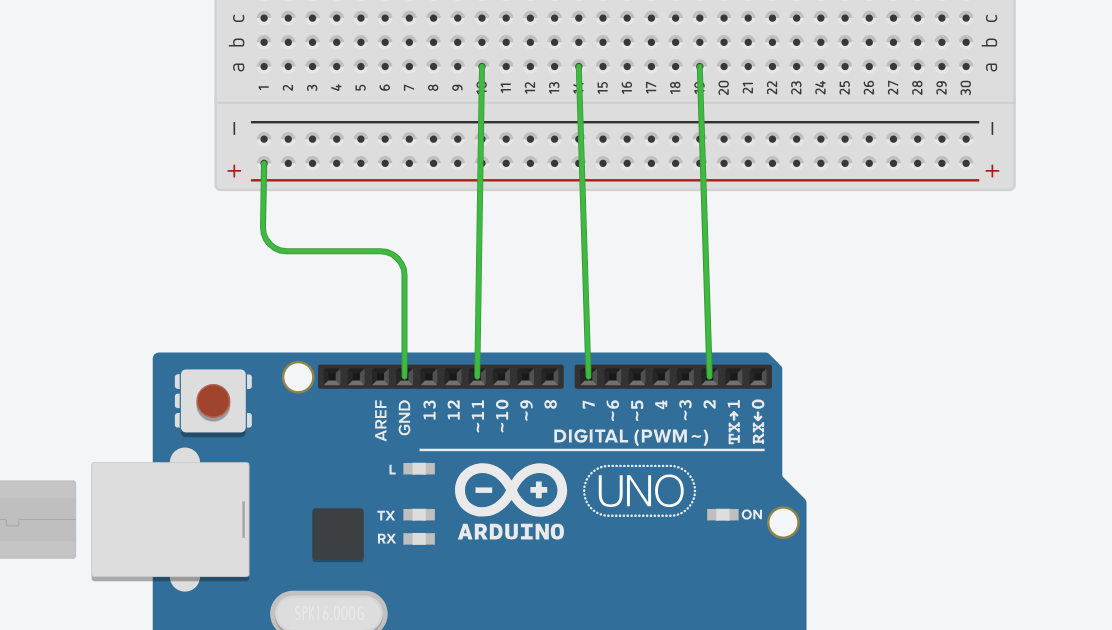
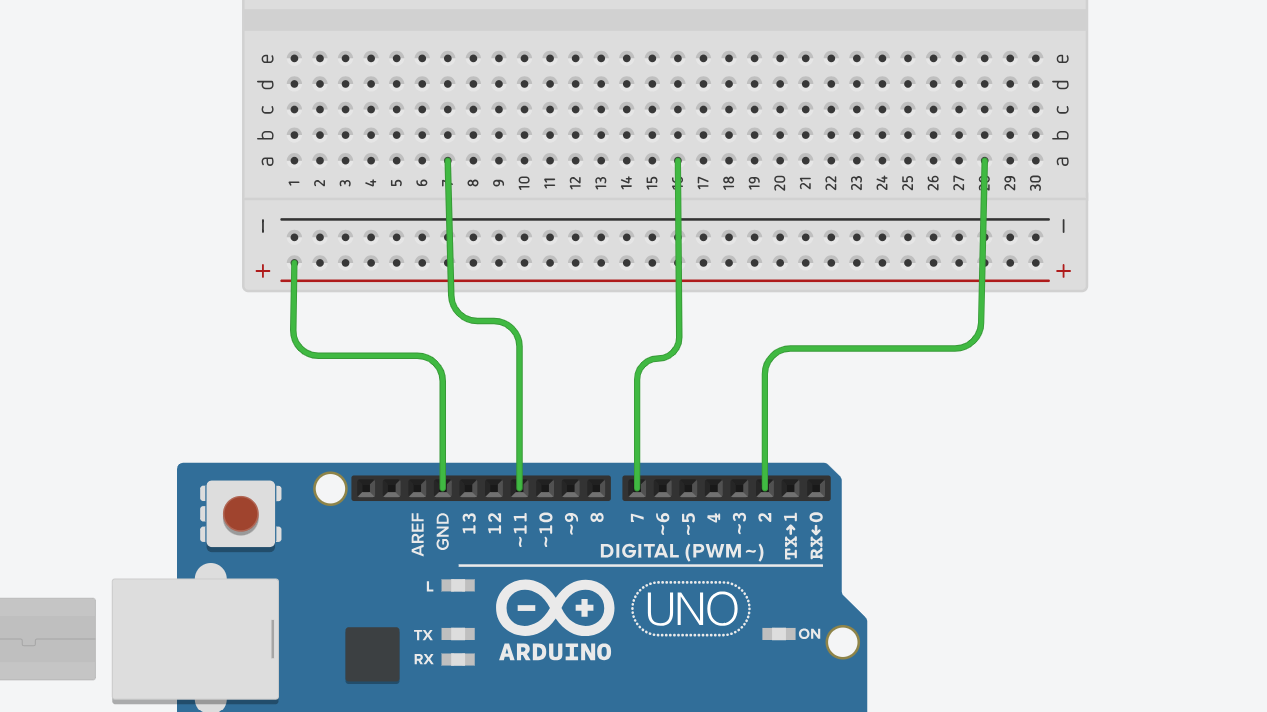
Finalização da parte de software do projeto e adição do código.

Changed region(s): [[0.0, 0.0, 0.9173, 1.0]]

diff --git a/README.md b/README.md
@@ -1,15 +1,15 @@
 # Basic Project Eletronics - Traffic Light
 Projeto básico de eletrônica para iniciar os estudos usando Arduino Uno.
-Será demonstrado como construir um semáforo utilizando um microcontrolador (Nesse caso, Arduino Uno).
+Será demonstrado como construir um semáforo de trânsito utilizando um microcontrolador (Nesse caso, Arduino Uno).
 
 # Ideia central
 A principal ideia é utilizar o Arduino Uno para programar 3 leds ao mesmo tempo. 
 Os leds funcionarão como um semáforo. O primeiro a ligar é o vermelho, depois de um tempo o amarelo e então o verde. Abaixo, estará listado os passos de como replicar este projeto para testes.
 As imagens abaixo serão do [Thinkerpad](https://www.tinkercad.com/dashboard), um simulador usado para replicar projetos com componentes eletrônicos. Foi utilizado aqui principalmente para evitar queimar algum LED durante a construção dele.
-Você também pode acessá-lo para testar este projeto, ou usá-lo para construir o seu próprio fisicamente, basta clicar em cima.
+Você também pode acessá-lo para testar este projeto, ou usá-lo para construir o seu próprio físico, basta clicar em cima. Ao final, deixo um vídeo do circuito funcionando fisicamente.
 
 ### Componentes de Software necessários:
-- [IDE arduino](https://docs.arduino.cc/software/ide/).
+- [IDE Arduino](https://www.arduino.cc/en/software/).
 
 ### Componentes Físicos necessários:
 - 1 microcontrolador - Nesse caso, será usado o Arduino Uno.
@@ -45,7 +45,7 @@ Veja a figura:
 
 ![ConexaoPinos](Imagens/ConexaoPinos.png)
 
-- Veja que agora as trilhas 10, 14 e 19 da Protoboard estão energizadas, exatamente daquela forma que foi mostrado, pelos pinos 11, 7 e 2 do Arduino, respectivamente.
+- Veja que agora as trilhas 7, 16 e 28 da Protoboard estão energizadas, exatamente daquela forma que foi mostrado, pelos pinos 11, 7 e 2 do Arduino, respectivamente.
 
 ### 3. Energizar o LED e fechar o circuito.
 - Para energizar efetivamente o LED, vamos precisar de colocá-lo na Protoboard. A ligação deve ser da seguinte forma:
@@ -55,7 +55,103 @@ Veja a figura:
 
 ![CircuitoCompleto](Imagens/CircuitoCompleto.png)
 
-- Observe que alguns resistores e alguns fios estão conectados em lugares diferentes na mesma trilha. Isso **não importa**, pois o que importa é a corrente na trilha. Fiz isso para mostrar visualmente que funciona.
+- Observe que alguns resistores e alguns fios estão conectados em lugares diferentes na mesma trilha. Isso **não importa**, pois o que importa é a corrente na trilha. Fiz isso para mostrar visualmente que funciona. Observe o GND conectado também.
 - A parte de hardware está completa, agora vamos para a programação.
 
 ## SOFTWARE: A programação do Arduino para funcionamento do Semáforo.
+
+### Primeiros passos:
+1. Conecte o seu Arduino no computador. A porta USB-B vai no Arduino e a outra vai no computador.
+2. Instale a [IDE Arduino](https://www.arduino.cc/en/software/). Não vou dar maiores instruções de instalação, para mais detalhes, pesquise sobre a instalação e configurações da IDE do Arduino.
+3. Na IDE, você vai precisar selecionar o modelo do seu Arduino (que nesse projeto é o Arduino Uno) e a porta USB do computador em que ele está conectado. Veja a imagem:
+
+![PortaIDE](Imagens/PortaIDE.png)
+
+Pronto, agora vamos à programação.
+
+OBS.: A extensão dos arquivos de códigos salvos pela IDE do Arduino é **.ino**, e não .cpp (que é o padrão da linguagem C++).
+
+### Programando o Arduino.
+A linguagem de programação no Arduino é o C++, por questões específicas em relação a linguagem C. Se você está aqui, já deve ter alguma noção de programação
+
+#### 1. Definindo as variáveis.
+As variáveis receberão o valor de cada pino que será usado para acender os LEDs.
+```
+int led_verde = 2;
+int led_amarelo = 7;
+int led_vermelho = 11;
+```
+
+#### 2. Definindo o Setup.
+No Arduino, a função ``setup()`` que não possui retorno, indica o que será feito antes da execução principal do programa em si. São as configurações iniciais.
+```
+void setup(){
+    pinMode(led_verde, OUTPUT);
+    pinMode(led_amarelo, OUTPUT);
+    pinMode(led_vermelho, OUTPUT);
+}
+```
+- A função ``pinMode()`` serve para definir se um pino será entrada de dados (INPUT) ou saída de dados (OUTPUT). Nesse caso, como vamos acender LEDs, precisamos que o pino indicado pela variável (como ``led_verde``, que nesse caso é o pino 2) se comporte como uma saída de dados, enviando um sinal elétrico. É esse sinal que acenderá o LED.
+
+#### 3. Definindo a função principal.
+A função principal do Arduino é a função ``loop()``. Nela, as intruções são lidas e passadas para o Arduino de forma contínua e em loop. Ao chegar ao final, ela retorna ao início e repete os comandos que estão ali dentro.
+```
+void loop(){
+    digitalWrite(led_vermelho, HIGH);
+    delay(5000);
+    digitalWrite(led_vermelho, LOW);
+
+    digitalWrite(led_verde, HIGH);
+    delay(3000);
+    digitalWrite(led_verde, LOW);
+
+    digitalWrite(led_amarelo, HIGH);
+    delay(1500);
+    digitalWrite(led_amarelo, LOW);
+}
+```
+- A função ``digitalWrite()`` serve para enviar um sinal elétrico (nível lógico) para um pino do Arduino. Observe então que enviamos primeiro um sinal ``HIGH`` para o pino ``led_vermelho``, que foi definido como 11. Isso liga o LED conectado a este pino 11. Depois, enviamos o sinal ``LOW`` para o mesmo pino, o que desliga o LED.
+- Entre esse jogo de sinal elétrico, temos a função ``delay()``, que é basicamente uma função de "espera". O programa lê ``digitalWrite()``, espera o valor definido no ``delay()`` (em milissegundos) e depois lê o próximo ``digitalWrite()``.
+- Observe que quando há a "troca" de LEDs (um apaga e o outro acende), não colocamos ``delay()``, pois a ideia é imitar um semáforo de trânsito, e seu funcionamento exige que quando uma luz apague, outra acenda instantaneamente.
+
+OBS.: Para seu programa funcionar, basta clicar no local indicado na imagem. A própria IDE compila e faz o upload do programa para o Arduino. Assim que isso termina, o circuito passa a funcionar.
+
+![upload](Imagens/upload.png)
+
+## Programa Final e Circuito montado funcionando.
+### Programa final:
+```
+int led_verde = 2; 
+int led_amarelo = 7;
+int led_vermelho = 11;
+
+void setup() {
+  pinMode(led_verde, OUTPUT);
+  pinMode(led_amarelo, OUTPUT);
+  pinMode(led_vermelho, OUTPUT);
+}
+
+void loop() { 
+  digitalWrite(led_vermelho, HIGH);
+  delay(5000); //5 segundos.
+  digitalWrite(led_vermelho, LOW);
+  
+  digitalWrite(led_verde, HIGH);
+  delay(3000); //3 segundos.
+  digitalWrite(led_verde, LOW);
+  
+  digitalWrite(led_amarelo, HIGH);
+  delay(1500); //1,5 segundos.
+  digitalWrite(led_amarelo, LOW);
+}
+```
+
+### Vídeos (Gifs) do circuito funcinando (Simulador e Físico):
+
+#### Simulador:
+
+![Circuito_funcionandoSimulador](Gifs/Circuito_funcionandoSimulador.gif)
+
+#### Físico:
+
+![Circuito_funcionandoFisico](Gifs/Circuito_funcionandoFisico.gif)